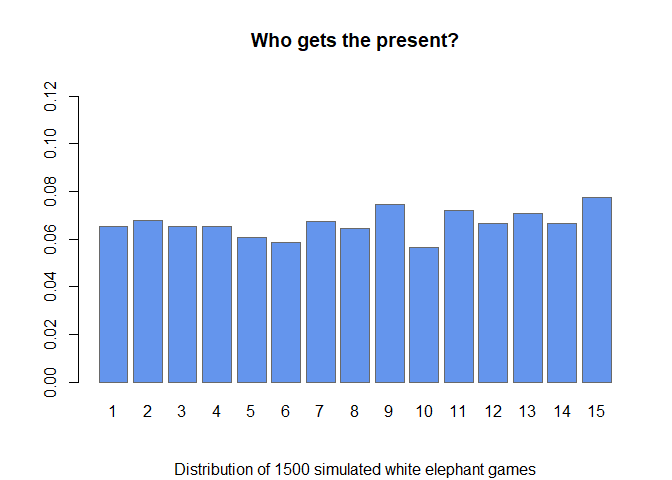
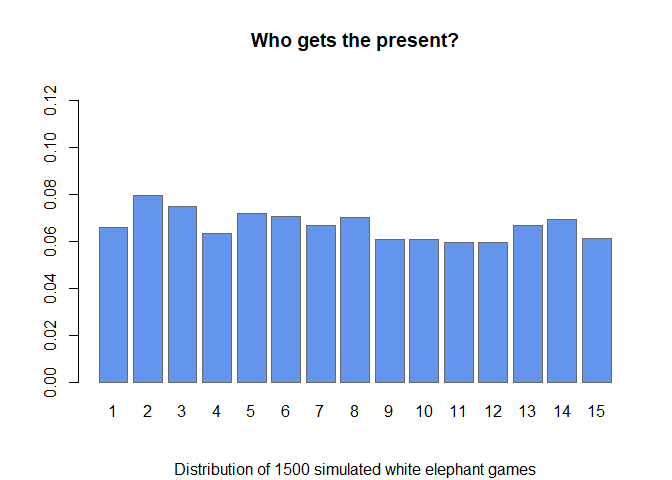
finished updating plot and summary functions

diff --git a/README.md b/README.md
@@ -26,7 +26,22 @@ Simulate 1500 White Elephant Games under different conditions.
 library(partyGames)
 games <- simulateElephant(15, dice = TRUE, coins = 1, iter = 1500, pheads = 0.5, sides = 6, numDice = 1)
 summary.partyGames(games)
+#> $winner
+#> winner
+#>   1   2   3   4   5   6   7   8   9  10  11  12  13  14  15 
+#>  99 119 112  95 108 106 100 105  91  91  89  89 100 104  92 
+#> 
+#> $moves
+#> moves
+#>   -6   -5   -4   -3   -2   -1    1    2    3    4    5    6 
+#> 1894 1883 1837 1847 1815 1866 1934 1907 1831 1950 1817 1919 
+#> 
+#> attr(,"class")
+#> [1] "elphSum" "list"
 class(games)
+#> [1] "elphList" "list"
 plot.partyGames(games)
 plot.partyGames(summary.partyGames(games))
 ```
+
+<img src="man/figures/README-example-1.png" width="100%" />
